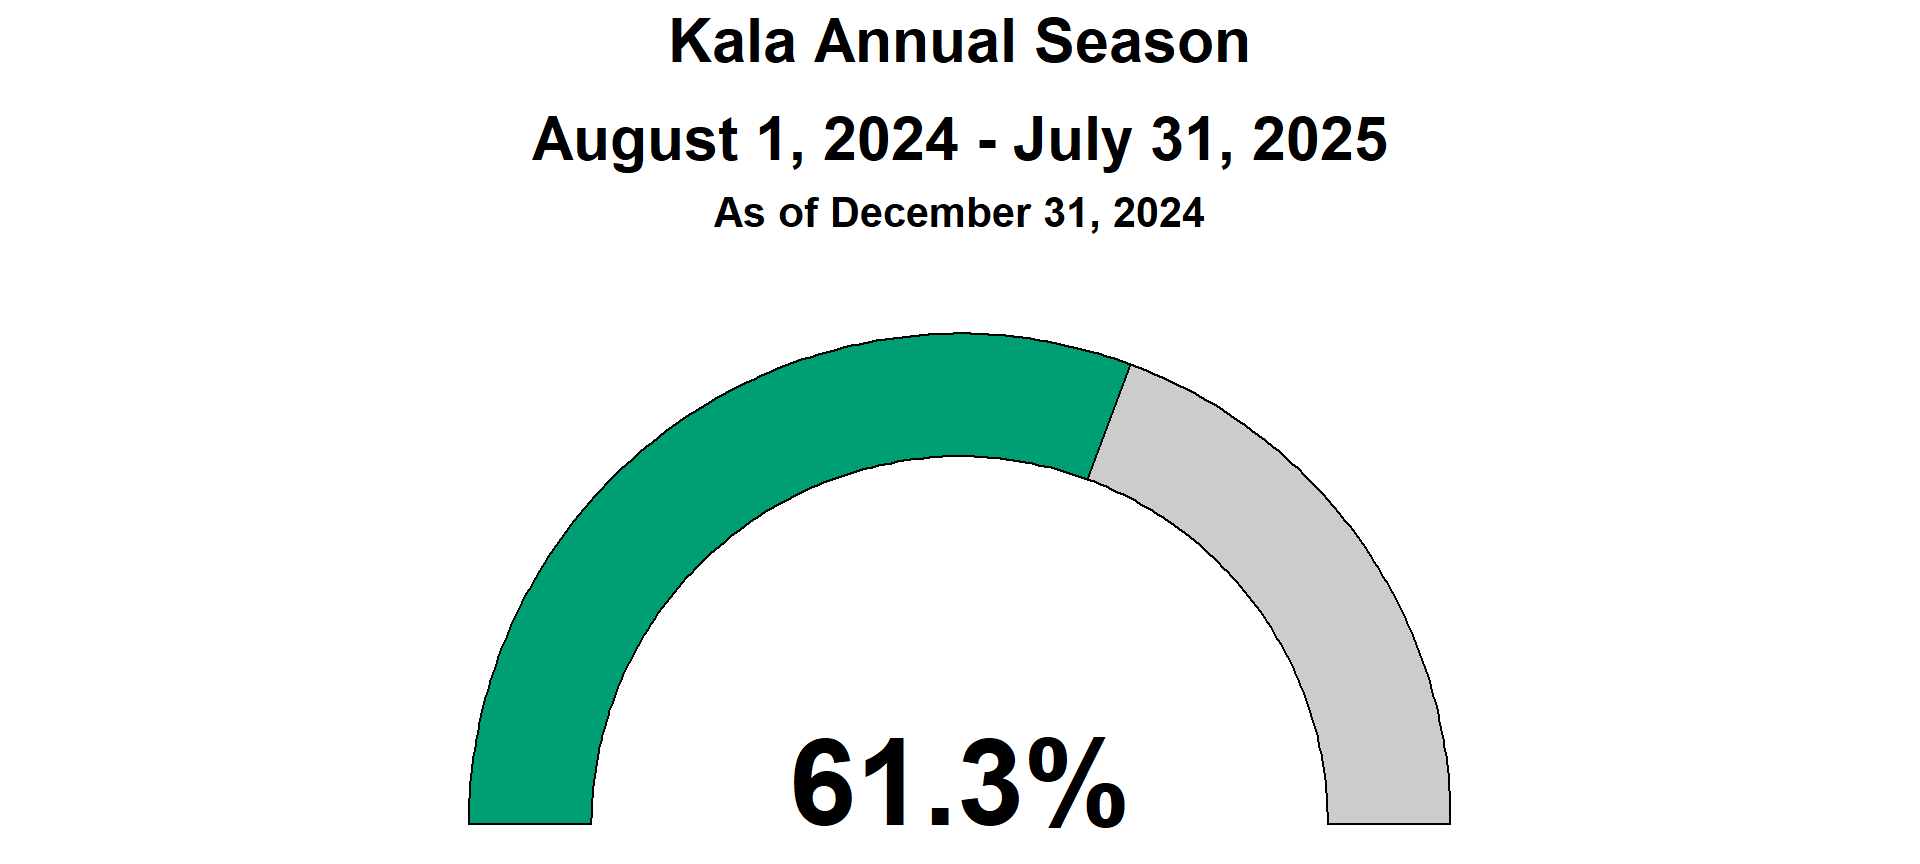
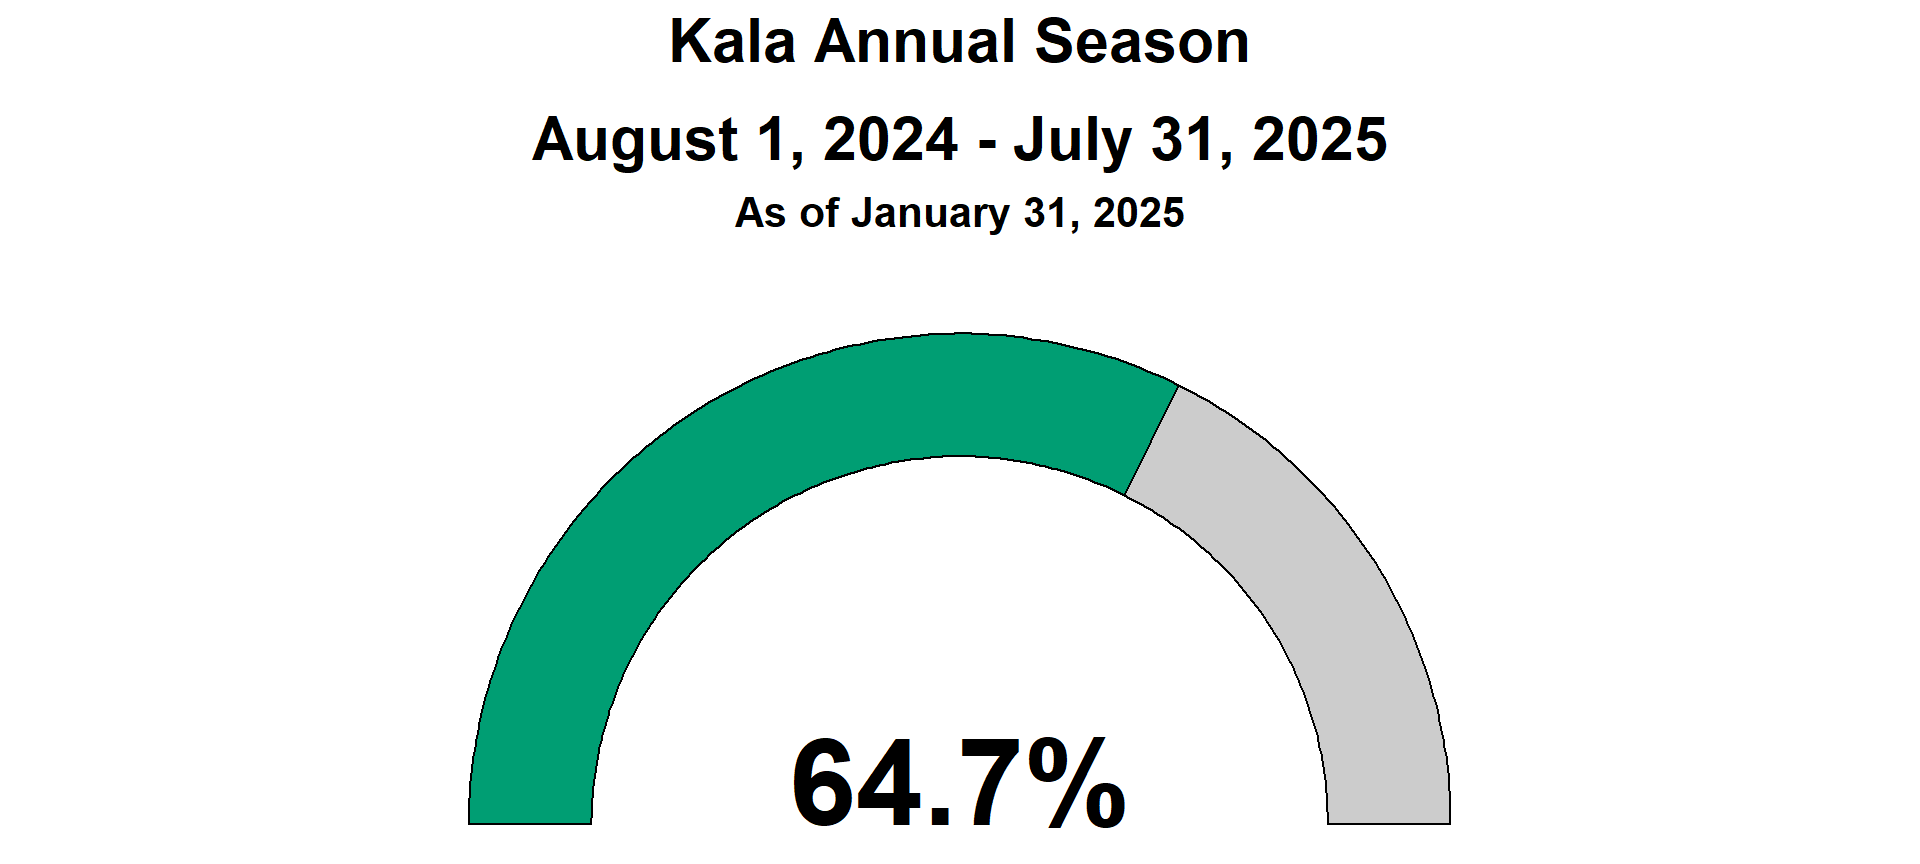
Update dashboard to reflect January 2025 data.

Changed region(s): [[0.375, 0.2188, 0.625, 0.2812], [0.5625, 0.4062, 0.625, 0.5625], [0.4375, 0.8438, 0.5312, 0.9688]]

diff --git a/Uku_KonaCrab_dashboard.html b/Uku_KonaCrab_dashboard.html
@@ -651,7 +651,7 @@ window.document.addEventListener("DOMContentLoaded", function (event) {
     <div class="nav-footer-left">
       <ul class="footer-items list-unstyled">
     <li class="nav-item">
- Uploaded on January 09, 2025
+ Uploaded on February 04, 2025
   </li>  
 </ul>
     </div>   

diff --git a/kala_uhu_dashboard.html b/kala_uhu_dashboard.html
@@ -651,7 +651,7 @@ window.document.addEventListener("DOMContentLoaded", function (event) {
     <div class="nav-footer-left">
       <ul class="footer-items list-unstyled">
     <li class="nav-item">
- Uploaded on January 09, 2025
+ Uploaded on February 04, 2025
   </li>  
 </ul>
     </div>   
